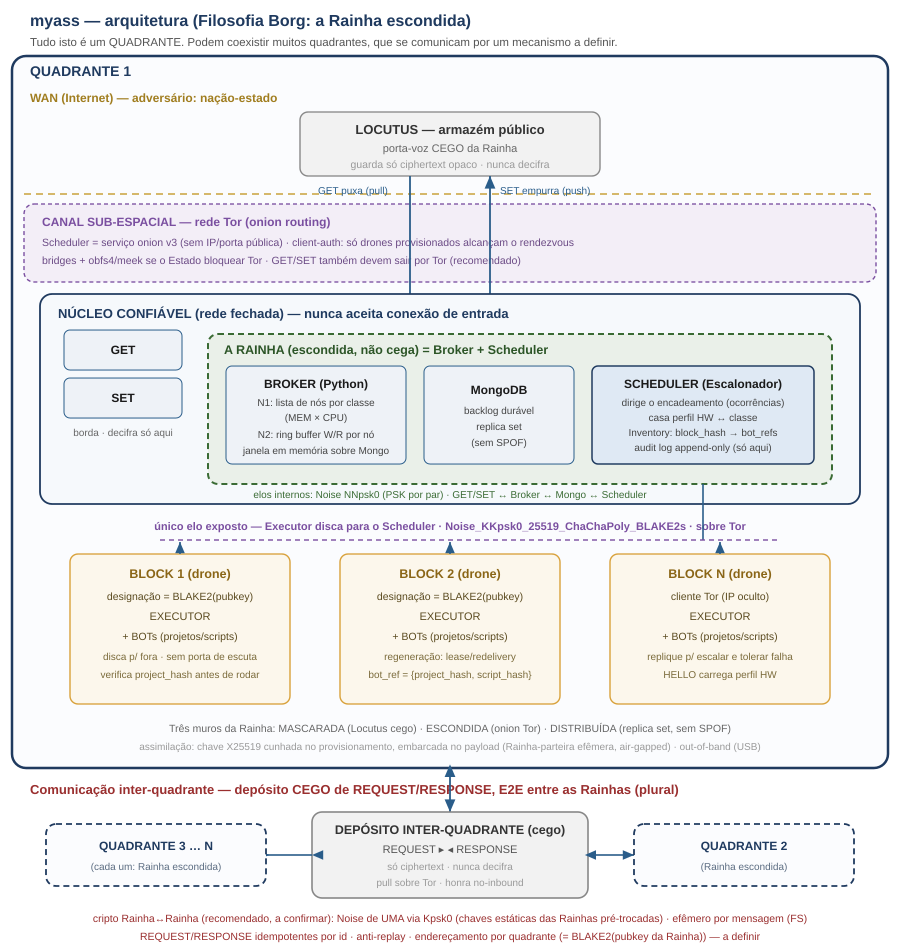
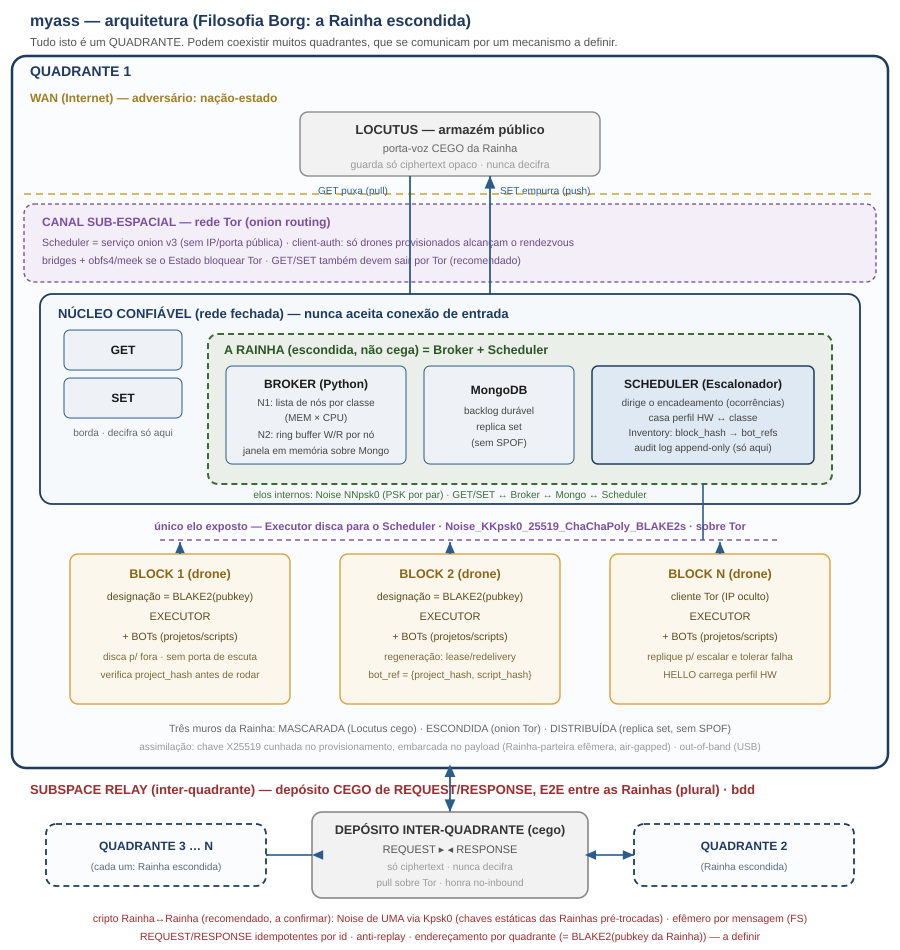
Name inter-quadrante link "subspace relay"; wire it to the bdd repo
- Inter-quadrante mechanism adopted as the "subspace relay" (relé de
  subespaço), Star-Trek-consistent with the intra-quadrante canal sub-espacial.
- Implemented on the bdd (Blind Dead Drop) repo at ../bdd: blind server,
  channel/request/response slots, long-poll, Tor onion. Record the stable
  .onion endpoint.
- Crypto delta flagged: bdd is symmetric (HKDF-SHA256, no FS/pubkey-auth,
  NIST hash) vs myass's non-NIST + Noise preference; recommended fix is a
  one-way Noise layer between Queen static keys inside the bdd blob.
- Add quadrante + subspace relay to the terminology list; update diagram label.

Changed region(s): [[0.0311, 0.8242, 0.84, 0.8547]]

diff --git a/CLAUDE.md b/CLAUDE.md
@@ -96,10 +96,13 @@ Because the payload **carries a secret** (static private key + PSK) it is sensit
 
 **Outermost unit — the quadrante.** Everything below (the WAN edge / Locutus, the trusted core / Rainha, and the blocks) lives inside one big box called a **quadrante**. The system is composed of **many quadrantes**; a single quadrante is a complete, self-sufficient instance of the architecture described here. Rendered in `doc/diagrama-arquitetura-tecnico.svg`.
 
-**Inter-quadrante communication — blind REQUEST/RESPONSE deposit between Queens (adopted; crypto details pending).** Quadrantes talk **Queen-to-Queen** (Rainha ↔ Rainha, plural) through a **blind deposit service** that holds only opaque ciphertext: one Queen *deposits* a REQUEST, the peer Queen *pulls* it; RESPONSEs travel back the same way. This is **Locutus between Queens** — the same blind-dead-drop pattern as the WAN edge, applied between cores. It is **pull-based and carried over Tor**, so it honours *no inbound* and never reveals one core's location to another; the deposit itself is blind (decryption happens only inside each hidden core). Because the deposit is **asynchronous store-and-forward**, the interactive Noise handshakes used elsewhere (`KK`/`NN`) do **not** apply — instead use a **one-way Noise pattern between the Queens' static keys**.
-  - **Recommended (to confirm):** `Noise_Kpsk0_25519_ChaChaPoly_BLAKE2s` one-way — both Queens' static public keys pre-shared out-of-band (like drone provisioning), per-pair PSK, fresh ephemeral per message → forward secrecy.
-  - **Separate repo (owner decision):** the blind deposit itself is being built as its **own generic project in a separate repository** — a reusable *blind dead drop* (store-and-forward, content-blind, pull-based) with no myass-specific knowledge. myass consumes it: the deposit stays generic and never decrypts; myass layers the Queen identity, the one-way Noise crypto, addressing, and REQUEST/RESPONSE semantics **on top**. (Repo name TBD — wire it in here once it exists.)
-  - **Still open:** REQUEST/RESPONSE **idempotency** keys + **anti-replay**; **addressing** (quadrante id = `BLAKE2(Queen static pubkey)` + routing table); cross-quadrante metadata / cover traffic.
+**Inter-quadrante communication — the `subspace relay` (relé de subespaço), a blind REQUEST/RESPONSE dead drop between Queens (adopted).** The cross-quadrante link is named the **subspace relay** (Star-Trek-consistent with the intra-quadrante *canal sub-espacial*). Quadrantes talk **Queen-to-Queen** (Rainha ↔ Rainha, plural) through a **blind dead drop** that holds only opaque ciphertext: one Queen *deposits* a REQUEST, the peer Queen *pulls* it; RESPONSEs travel back the same way. This is **Locutus between Queens** — the same blind dead-drop pattern as the WAN edge, applied between cores. **Pull-based and carried over Tor**, so it honours *no inbound* and never reveals one core's location to another; decryption happens only inside each hidden core. Because the deposit is **asynchronous store-and-forward**, the interactive Noise handshakes used elsewhere (`KK`/`NN`) do **not** apply.
+
+  - **Implementation: the `bdd` (Blind Dead Drop) project at `../bdd`** — its own generic repo, consumed by myass (see its `CLAUDE.md`). `bdd` is a stdlib HTTPS/HTTP service whose **server is blind**: opaque blobs at opaque 64-hex addresses; it can neither read content nor link the two parts/parties. It already models our exact shape — a **channel** (int) with two **parts, `request` and `response`**, whose addresses + keys derive from *different* `HKDF` labels so the server can't correlate them — plus **long-poll** (`?wait=N`) for pull, **TTL buckets** to blunt temporal metadata, and a `--no-tls` mode meant to run **behind a Tor onion service** (content is already E2E). So the deposit, Tor transport, blindness, and request/response slots are **done** in `bdd`.
+    - **Live `bdd` onion endpoint (stable):** `http://46xhzbennzgxolftzlufl27yzwx4gdfb3xmv5wsuw46tbd74tv6tbjad.onion:8081` (no TLS — content is E2E and the `.onion` is itself the access credential).
+
+  - **Crypto delta to reconcile (owner decision).** `bdd`'s client-side crypto is **symmetric**: a shared 32-byte root secret → `HKDF-SHA256` → per-part address + a ChaCha20-Poly1305 message key. Two gaps vs. the myass threat model: (1) **no forward secrecy and no public-key sender auth** — a leaked root secret exposes past *and* future messages on that channel and lets either holder forge; (2) derivation uses **SHA-256** (NIST/SHA2), whereas myass *prefers* non-NIST (BLAKE2). **Recommended reconciliation:** treat `bdd` as the dumb blind transport and layer myass's own **one-way Noise between the Queens' static keys** (`Noise_K`/`Kpsk0`, ephemeral per message → FS, mutual pubkey auth) *inside* the blob `bdd` carries — keeps `bdd` generic and gives myass FS + asymmetric auth on top. AEAD is consistent either way (ChaCha20-Poly1305).
+  - **Still open:** REQUEST/RESPONSE **idempotency** + **anti-replay** (a dead drop invites replay); **addressing** — map quadrante identity (`BLAKE2(Queen static pubkey)`) onto `bdd` channels/secrets + a routing table; cross-quadrante metadata / cover traffic.
 
 Within a quadrante there are two zones:
 
@@ -238,5 +241,5 @@ The first substantive changes will define the project's conventions. As they lan
 
 - Record the chosen language(s), framework, package manager, and the build/lint/test commands here.
 - Replace the "Project status" note once real code exists.
-- Keep terminology consistent: **Scheduler (Escalonador)**, **block** (= Executor + BOTs unit; Borg **drone**), **BOT** (= a project), **script**, **`bot_ref`** (assinatura do projeto + assinatura do script), **occurrence (ocorrência)**, **exigência** (hardware requirement).
+- Keep terminology consistent: **Scheduler (Escalonador)**, **block** (= Executor + BOTs unit; Borg **drone**), **BOT** (= a project), **script**, **`bot_ref`** (assinatura do projeto + assinatura do script), **occurrence (ocorrência)**, **exigência** (hardware requirement), **quadrante** (= outermost unit; a full instance of the architecture), **subspace relay** (= inter-quadrante link; blind dead drop between Queens, implemented on `bdd`).
 - Borg vocabulary (see *Filosofia Borg*): **drone** (= block), **assimilação** (provisioning payload; model B = key embedded in payload), **designação** (= `block_name`), **regeneração** (= lease/redelivery), **canal sub-espacial** (= external Executor↔Scheduler channel, carried over Tor), **Rainha** (= Broker + Scheduler, the central orchestrating mind — kept but **hidden, not blind**; "Rainha escondida"), **Locutus** (= public store, the Queen's *blind mouthpiece* on the WAN).